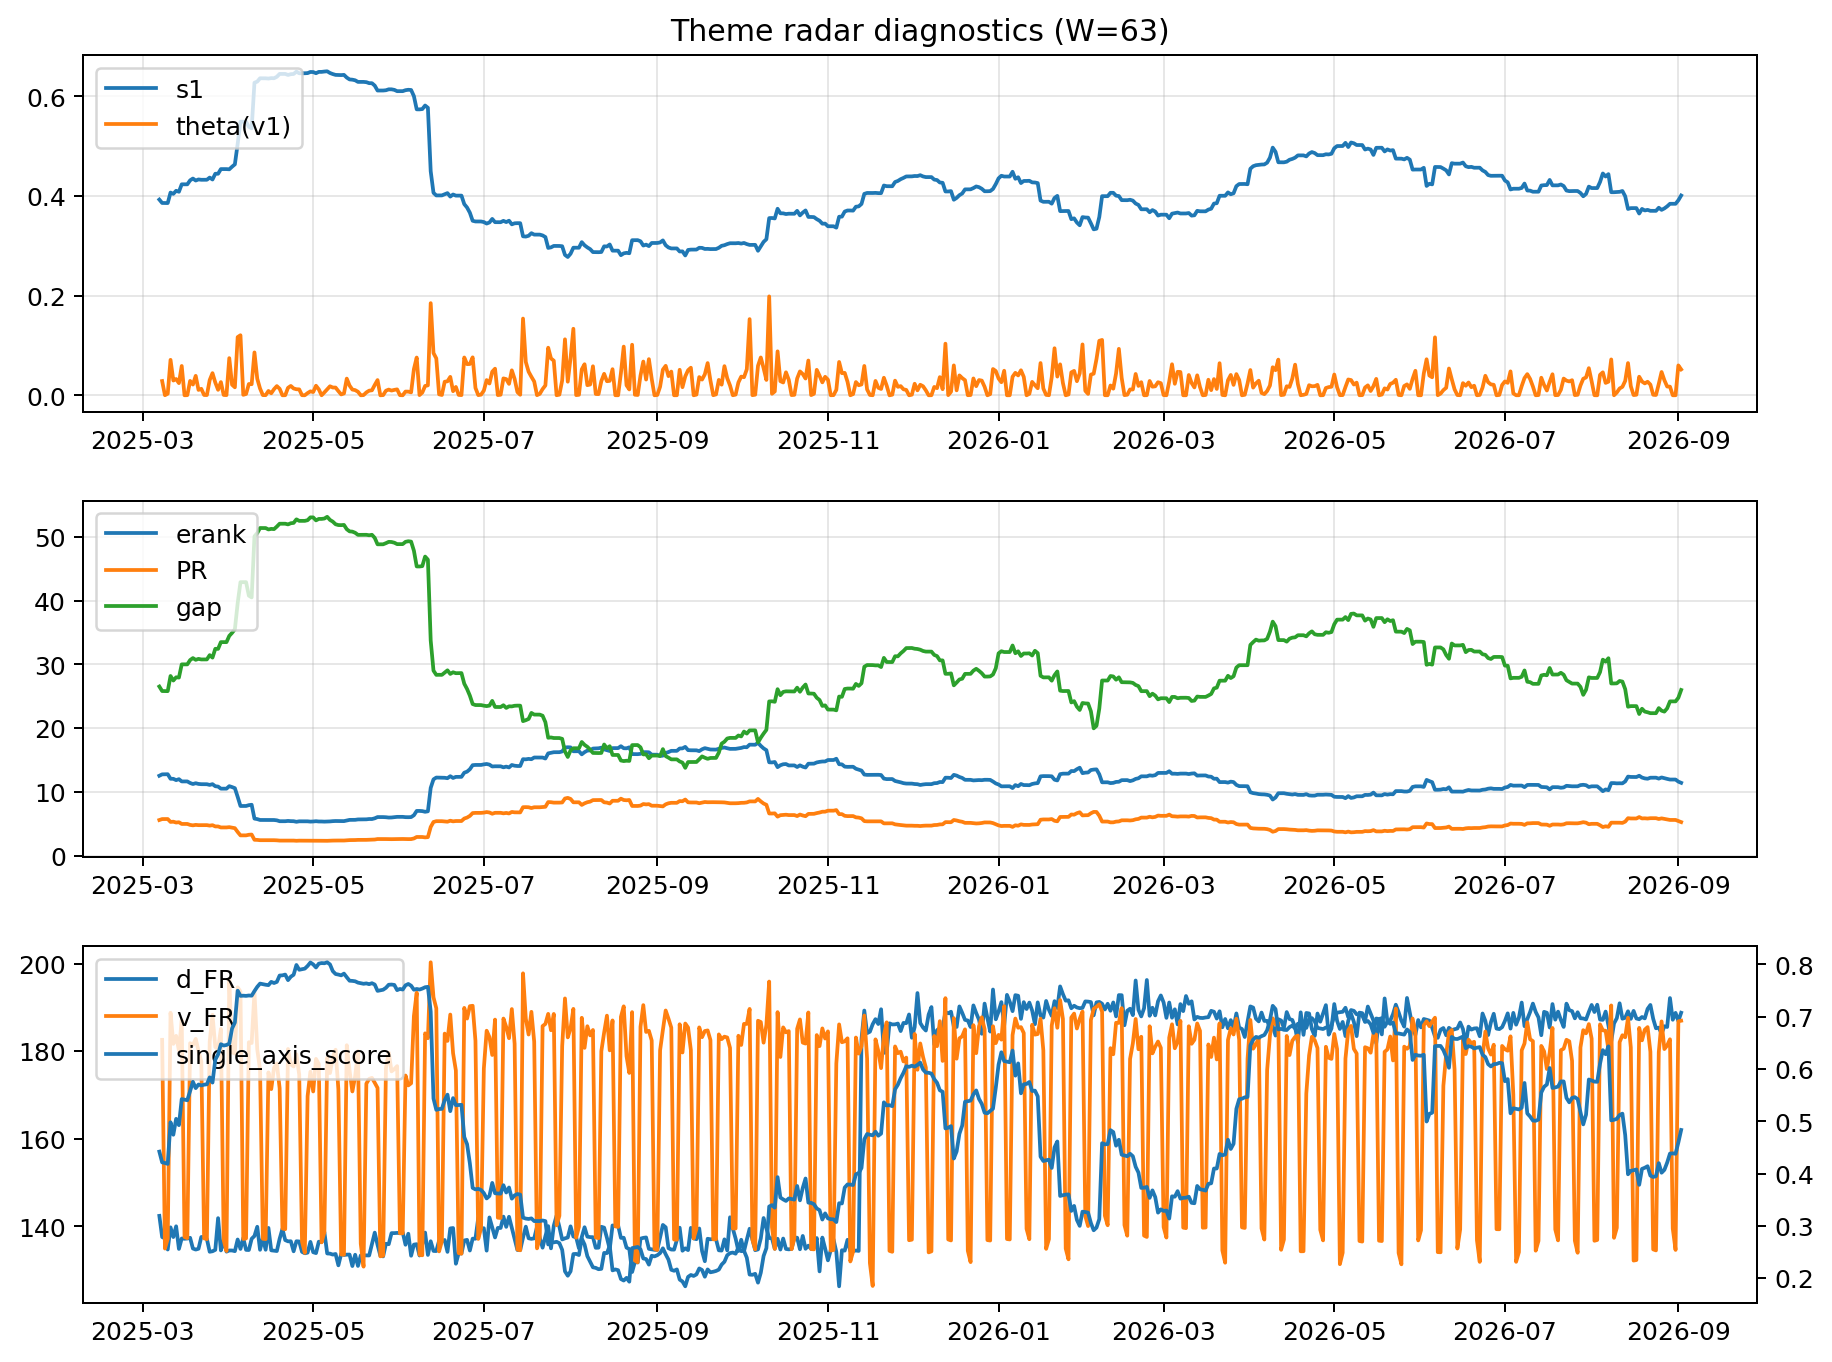
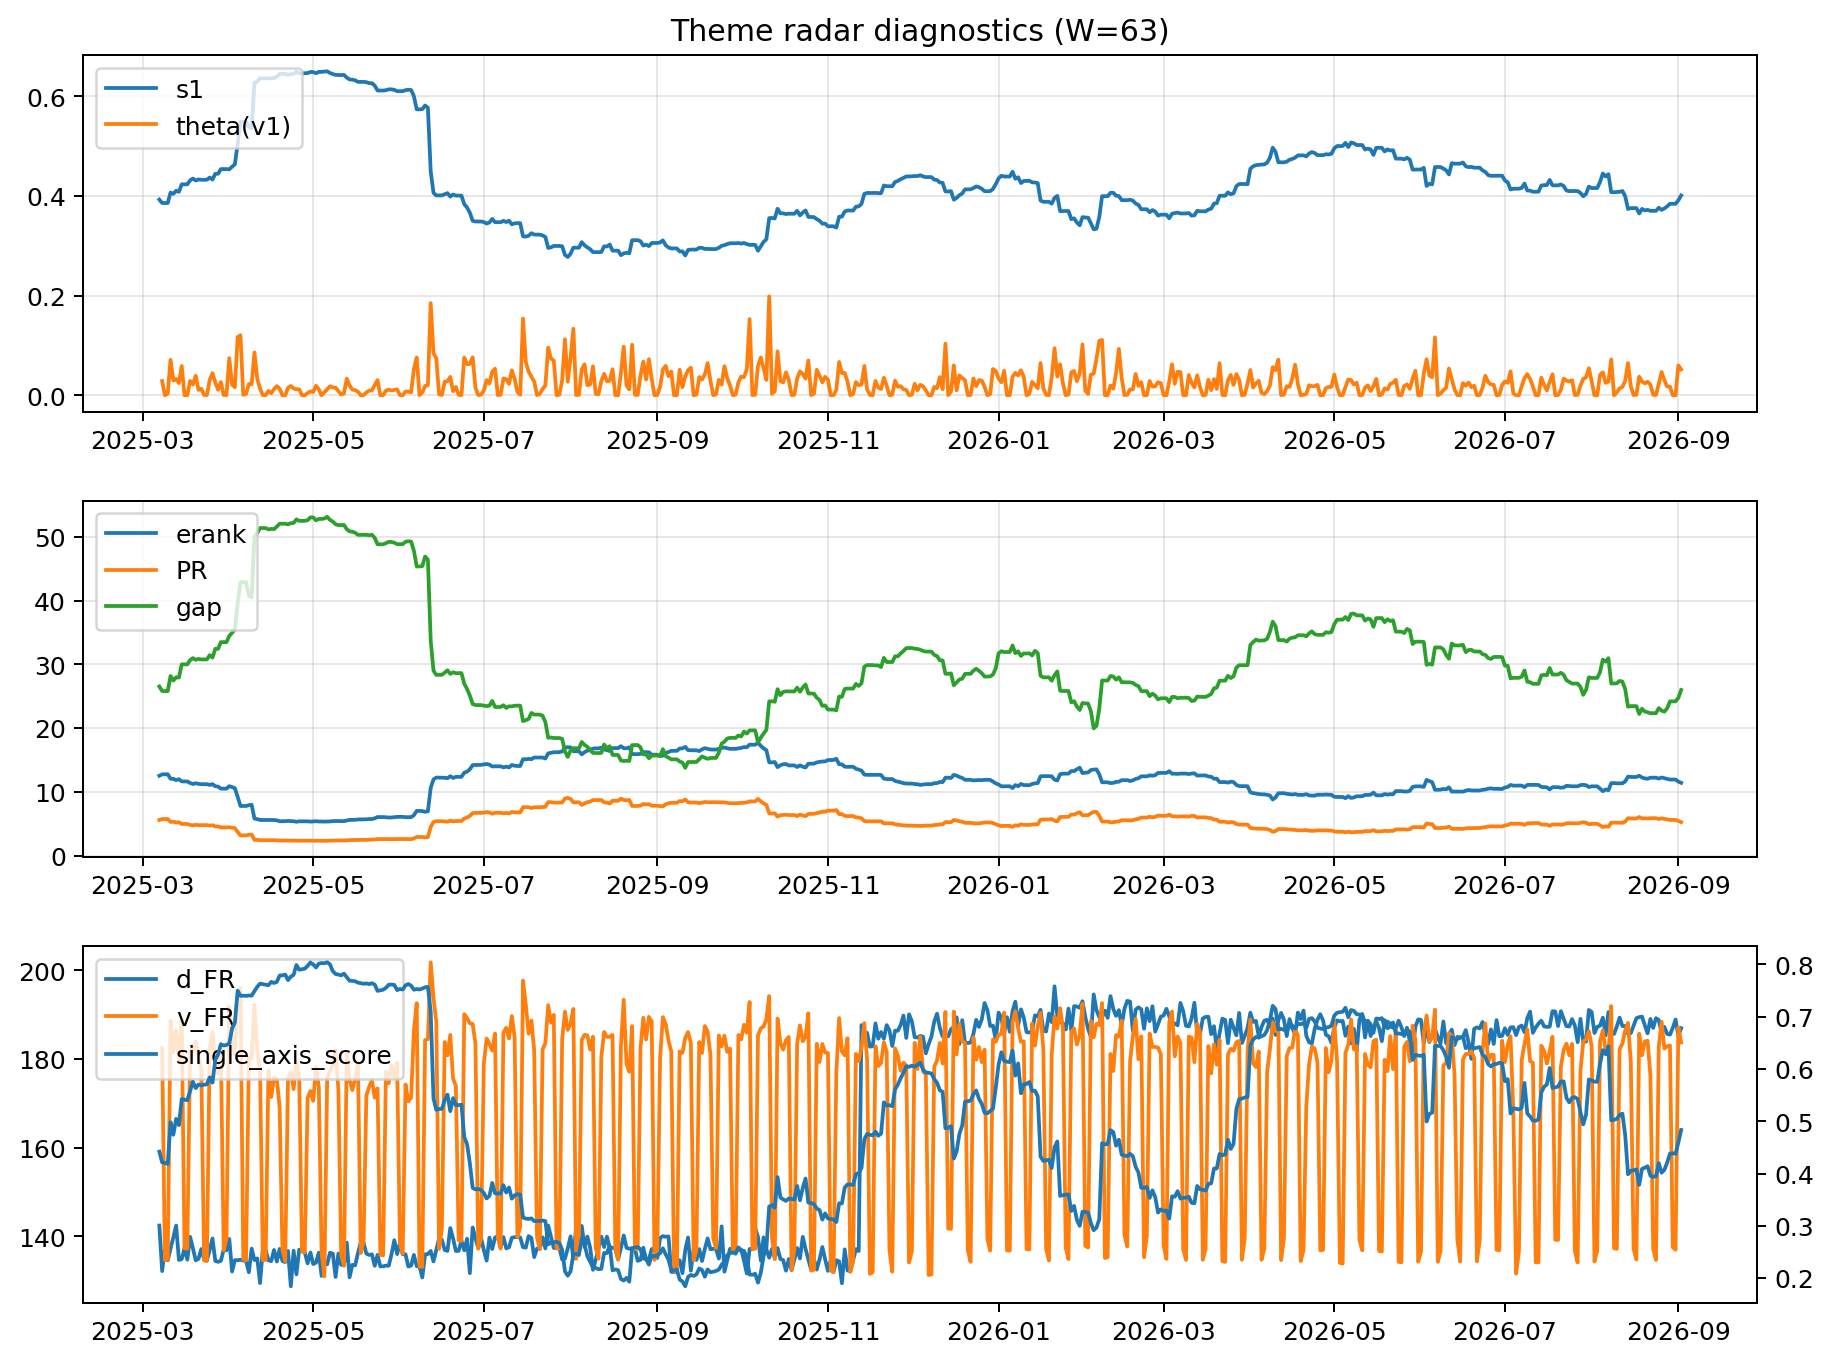
log: 2026-09-02 | sha256:31e914b04e3fb9cae118b287f4d0f16ea1c1468114f17d37c3745ddd4971c4ae

diff --git a/logs/2026-09-02.md b/logs/2026-09-02.md
@@ -3,43 +3,43 @@
 ![diagnostic W63](../assets/diagnostic/2026-09-02_W63.png)
 
 ## Leaders (v1) — W=63
-- **Nuclear_Uranium** (0.0893426245607435)
-- Semis (0.0685634231879298)
-- Quantum (0.0623859591346532)
+- **Nuclear_Uranium** (0.0893426271148446)
+- Semis (0.0685634238080069)
+- Quantum (0.0623859639804141)
 
 ## Challengers — W=63
-**v2:** Rates (0.0839157131973295), Semis (0.0828355778885522), Genomics_Bio (0.0719910958941663)
-**v3:** Crypto (0.0952046864061261), Metals (0.087565719452203), Genomics_Bio (0.0787856259566286)
+**v2:** Rates (0.0839159886803024), Semis (0.0828355544813456), Genomics_Bio (0.0719909875321384)
+**v3:** Crypto (0.0952047597162659), Metals (0.0875657884095329), Genomics_Bio (0.0787857361788941)
 
 ## Migration (20D slope) — W=63
 **Top risers:**
-- axis_Space: 0.0004134448743999
-- axis_Rates: 0.0002682579152781
-- axis_Genomics_Bio: 0.0002493434996711
-- axis_Commodities: 0.0002398026439606
-- axis_Drones_Autonomy: 0.0001644151881307
-- axis_DataCenter_Infra: 0.0001521216597546
-- axis_Software_Cloud: 0.0001346632490689
-- axis_Nuclear_Uranium: 6.2694286309184e-05
-- axis_USD: 5.873675941578579e-05
-- axis_Sector_Fin: 3.1488426851472294e-05
+- axis_Space: 0.0004134438973512
+- axis_Rates: 0.000268266233713
+- axis_Genomics_Bio: 0.0002493433539389
+- axis_Commodities: 0.0002398027544098
+- axis_Drones_Autonomy: 0.0001644148203943
+- axis_DataCenter_Infra: 0.0001521215476084
+- axis_Software_Cloud: 0.0001346633110306
+- axis_Nuclear_Uranium: 6.269321946132448e-05
+- axis_USD: 5.873683438536922e-05
+- axis_Sector_Fin: 3.1488425076204325e-05
 
 **Top fallers:**
-- axis_Sector_ConsDisc: -7.130805386306507e-05
-- axis_Sector_ConsStap: -7.278878413630453e-05
-- axis_Robotics: -7.318983601888206e-05
-- axis_Sector_RealEstate: -8.484105804614422e-05
-- axis_Grid_Power: -9.891403149096166e-05
-- axis_Critical_Minerals: -0.0001120829919402
-- axis_MegaCap_AI: -0.0001737877363935
-- axis_Sector_Health: -0.0002113005444104
-- axis_Semis: -0.0002201189066096
-- axis_Crypto: -0.0004080587259082
+- axis_Sector_ConsDisc: -7.130793334640308e-05
+- axis_Sector_ConsStap: -7.278899200199647e-05
+- axis_Robotics: -7.318993303695787e-05
+- axis_Sector_RealEstate: -8.484124936154203e-05
+- axis_Grid_Power: -9.891432591903252e-05
+- axis_Critical_Minerals: -0.0001120833115679
+- axis_MegaCap_AI: -0.000173787837113
+- axis_Sector_Health: -0.0002113006810745
+- axis_Semis: -0.000220119550356
+- axis_Crypto: -0.0004080589888836
 
 ## Risk line (W=63)
-- s1: 0.4007710214123524
-- theta_v1: 0.0519429350221142
-- v_FR: 186.939409161758
+- s1: 0.400770987345361
+- theta_v1: 0.051943017046451
+- v_FR: 183.6990581950405
 - single_axis_score: 0.4833027522935779
 
 ## Interpretation
@@ -48,7 +48,7 @@
 - Action: Tomorrow watchlist: Space, Rates, Genomics_Bio, Commodities, Drones_Autonomy + v2_top1=Rates
 - Action: Hedge note: normal correlation stability.
 
-- Percentiles (W=63 history): vfr_pct=0.87, theta_pct=0.87, s1_pct=0.44, score_pct=0.46.
+- Percentiles (W=63 history): vfr_pct=0.68, theta_pct=0.87, s1_pct=0.44, score_pct=0.46.
 
 ---
[2 lines of base64/hex data omitted]
